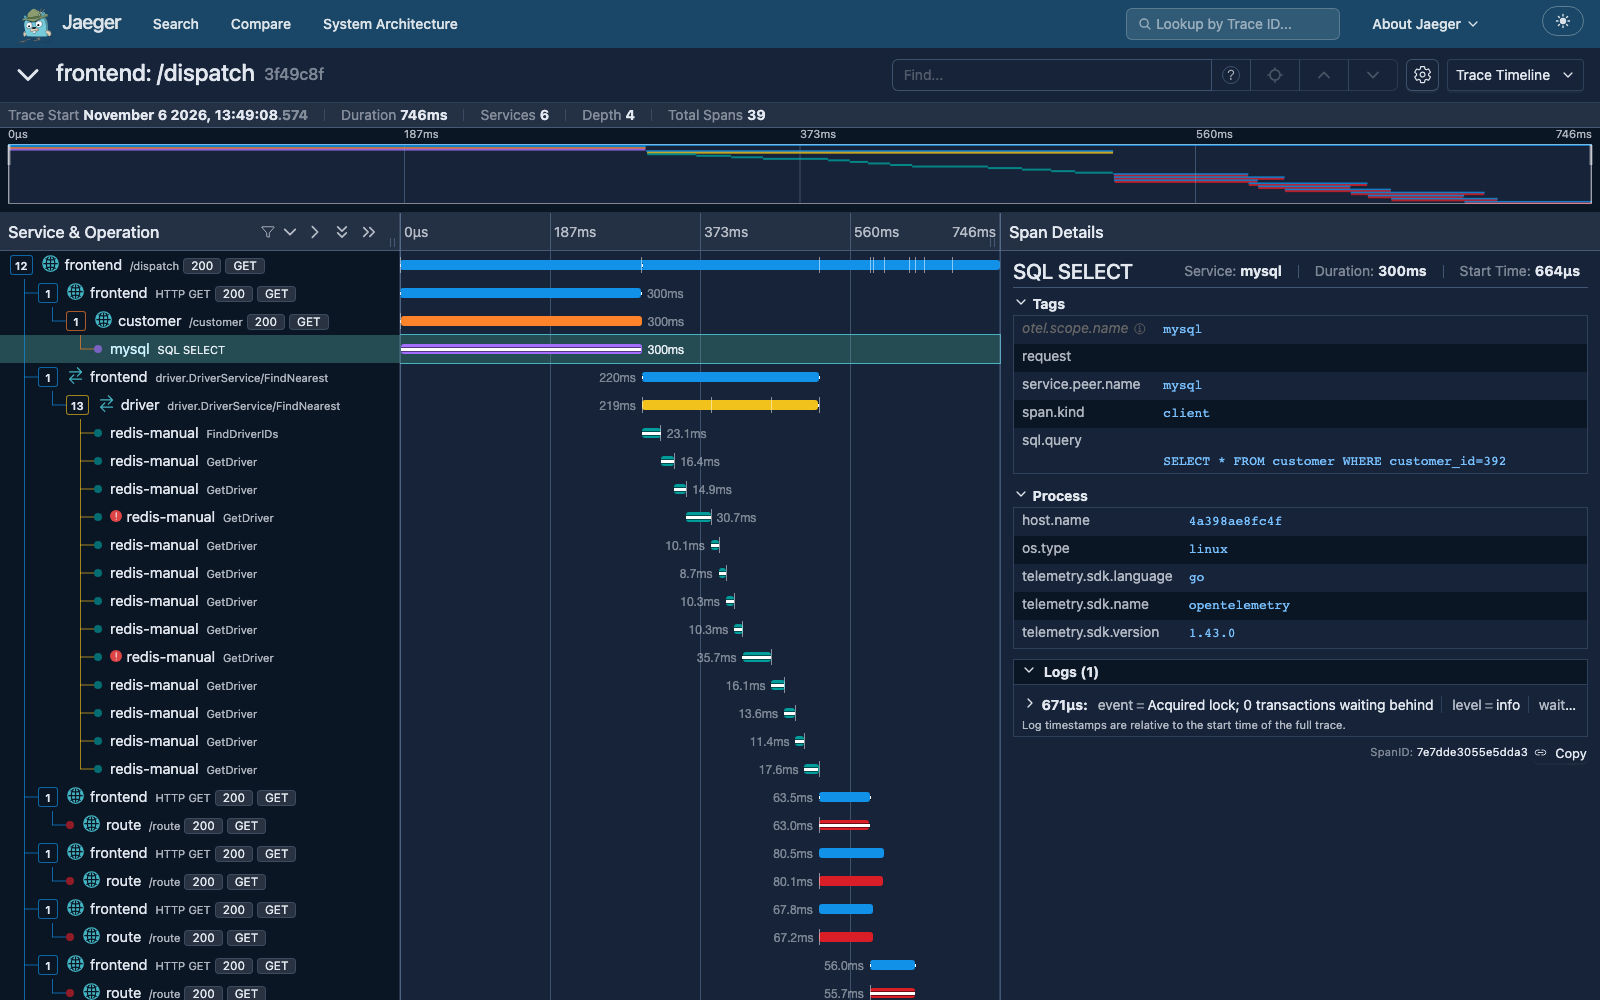
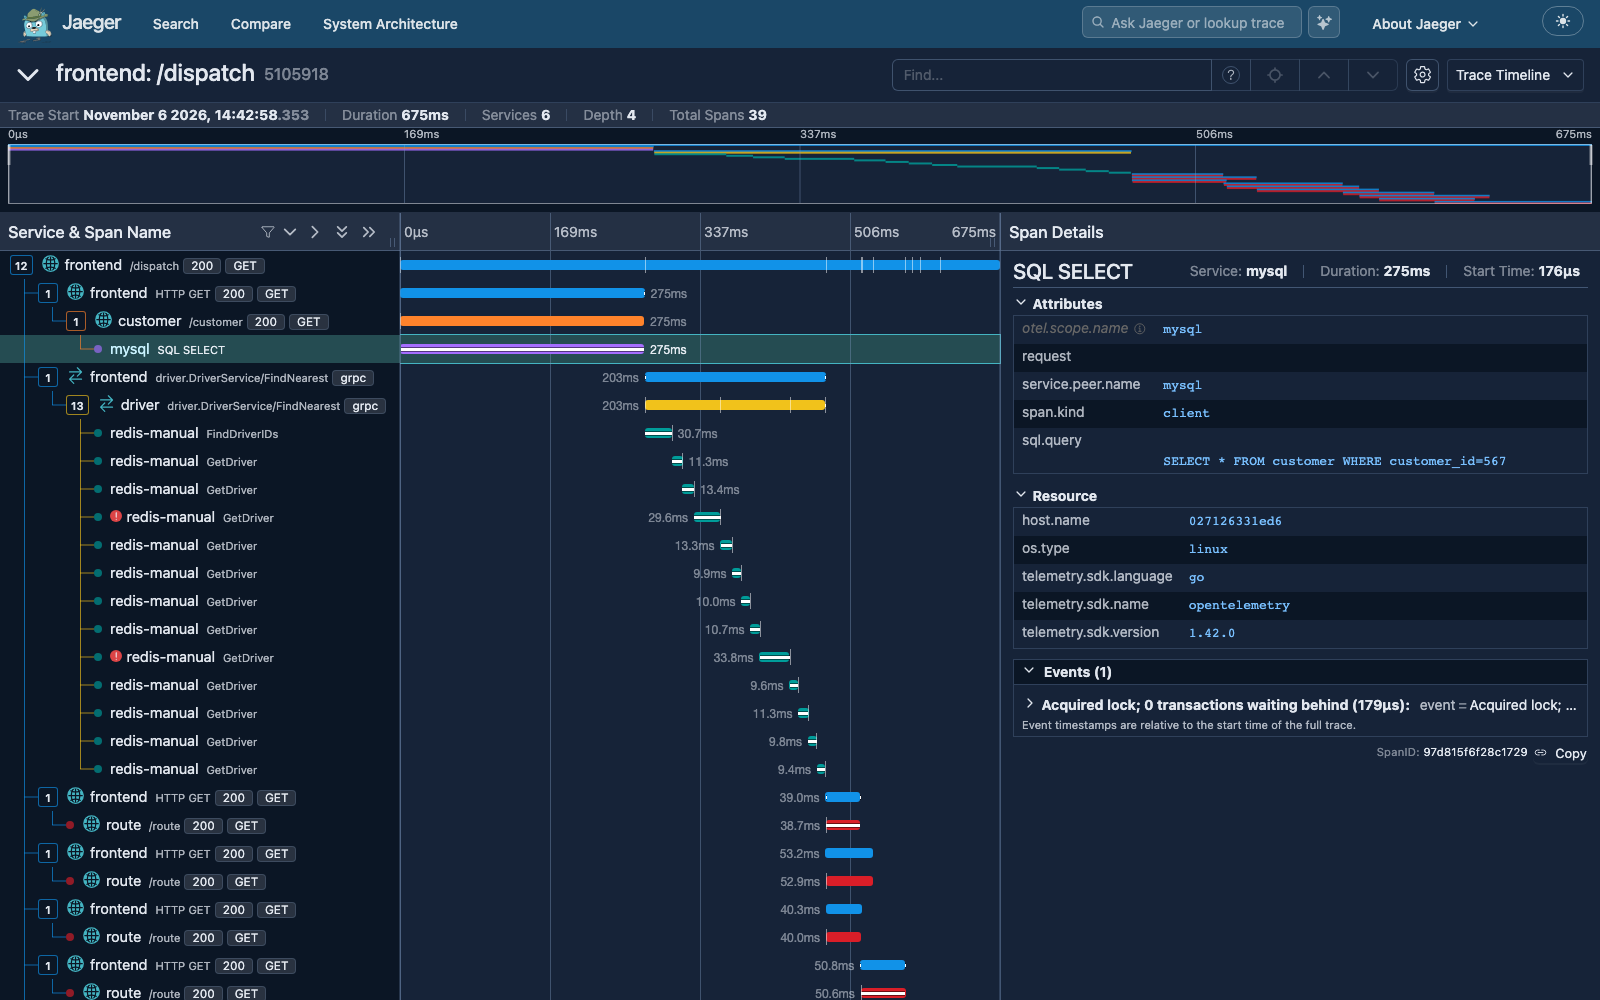
docs(features): Capture the trace view from the released UI and require capture names
The trace view screenshot comes from the released Jaeger image, whose UI
labels the span details Attributes, Resource and Events, so the image
agrees with the OpenTelemetry section above it; the intro page says the
same about the UI's terms. The capture script requires the names of the
captures to take, since they need different stacks and a run of all of
them cannot succeed. The shortcode derives the dark image name with the
path functions instead of a pattern on lowercase extensions.

diff --git a/layouts/_shortcodes/screenshot.html b/layouts/_shortcodes/screenshot.html
@@ -1,7 +1,8 @@
 {{- /* This shortcode places a screenshot of the Jaeger UI that follows the site's color mode. It takes the light image in "src" and shows "<src>-dark.<ext>" instead when the page is in dark mode; the stylesheet picks the visible one by the data-bs-theme attribute. Each image links to itself at full size. The call must be followed by a blank line, or Markdown folds the images into the next paragraph. */ -}}
 {{- $src := .Get "src" -}}
 {{- $alt := .Get "alt" -}}
-{{- $dark := replaceRE `\.([a-z]+)$` "-dark.$1" $src -}}
+{{- $ext := path.Ext $src -}}
+{{- $dark := printf "%s-dark%s" (strings.TrimSuffix $ext $src) $ext -}}
 <div class="screenshot">
 <a class="screenshot--light" href="{{ $src }}"><img src="{{ $src }}" alt="{{ $alt }}"></a>
 <a class="screenshot--dark" href="{{ $dark }}"><img src="{{ $dark }}" alt="{{ $alt }}"></a>

diff --git a/scripts/screenshots/README.md b/scripts/screenshots/README.md
@@ -17,7 +17,7 @@ Jaeger on port 16686.
 ```bash
 npm install
 npx playwright install chromium
-node scripts/screenshots/capture.mjs <capture> [<capture> ...]   # all captures when no name is given
+node scripts/screenshots/capture.mjs <capture> [<capture> ...]
 ```
 
 ## Stacks and captures
@@ -29,13 +29,16 @@ service names in the images are the familiar `frontend`, `customer`, `driver`,
 ### Goose stack: search, trace, graphs, assistant
 
 `scripts/ai-sidecar/goose/run.sh` in the `jaeger` repository starts Jaeger
-built from that working tree, with the AI assistant backed by Goose and a model
-from OpenRouter (`OPENROUTER_API_KEY` or `SECRET_RESOLVER_CMD` must be set; see
-the script's header). It sends traces from microsim, whose traces all root at
+with the AI assistant backed by Goose and a model from OpenRouter
+(`OPENROUTER_API_KEY` or `SECRET_RESOLVER_CMD` must be set; see the script's
+header). With `--release` it runs the released Jaeger image, which is what the
+captures of the released UI should show; without it, it runs a build of that
+working tree, which the `genai-trace` capture needs, because the released image
+does not yet trace its own assistant turns. It sends traces from microsim, whose traces all root at
 `test-executor: runTest` and carry errors, so HotROD replaces it:
 
 ```bash
-./scripts/ai-sidecar/goose/run.sh                  # from the jaeger repository
+./scripts/ai-sidecar/goose/run.sh --release        # from the jaeger repository; without --release for genai-trace
 docker stop goose-microsim-1
 docker restart goose-jaeger-1                      # empties the in-memory store
 docker run -d --rm --name hotrod --network goose_default \

diff --git a/content/docs/v2/2.23/_index.md b/content/docs/v2/2.23/_index.md
@@ -60,7 +60,7 @@ See [Features](./features/) page for more details.
 
 The Jaeger and [OpenTelemetry](https://opentelemetry.io) projects have different goals. OpenTelemetry aims to provide APIs and SDKs in multiple languages to allow applications to export various telemetry data out of the process, to any number of metrics and tracing backends. The Jaeger project is primarily the tracing backend that receives tracing telemetry data and provides processing, aggregation, data mining, and visualizations of that data. For more information please refer to a blog post [Jaeger and OpenTelemetry](https://medium.com/jaegertracing/jaeger-and-opentelemetry-1846f701d9f2).
 
-Jaeger was originally designed to support the [OpenTracing standard](https://opentracing.io/specification/). The terminology is still used in Jaeger UI, but the concepts have direct mapping to the OpenTelemetry data model of traces.
+Jaeger was originally designed to support the [OpenTracing standard](https://opentracing.io/specification/). Its concepts map directly to the OpenTelemetry data model of traces, and Jaeger UI uses the OpenTelemetry terms.
 
 | Capability    | OpenTracing concept | OpenTelemetry concept |
 | ------------- | ------------------- | --------------------- |

diff --git a/content/docs/v2/_dev/_index.md b/content/docs/v2/_dev/_index.md
@@ -60,7 +60,7 @@ See [Features](./features/) page for more details.
 
 The Jaeger and [OpenTelemetry](https://opentelemetry.io) projects have different goals. OpenTelemetry aims to provide APIs and SDKs in multiple languages to allow applications to export various telemetry data out of the process, to any number of metrics and tracing backends. The Jaeger project is primarily the tracing backend that receives tracing telemetry data and provides processing, aggregation, data mining, and visualizations of that data. For more information please refer to a blog post [Jaeger and OpenTelemetry](https://medium.com/jaegertracing/jaeger-and-opentelemetry-1846f701d9f2).
 
-Jaeger was originally designed to support the [OpenTracing standard](https://opentracing.io/specification/). The terminology is still used in Jaeger UI, but the concepts have direct mapping to the OpenTelemetry data model of traces.
+Jaeger was originally designed to support the [OpenTracing standard](https://opentracing.io/specification/). Its concepts map directly to the OpenTelemetry data model of traces, and Jaeger UI uses the OpenTelemetry terms.
 
 | Capability    | OpenTracing concept | OpenTelemetry concept |
 | ------------- | ------------------- | --------------------- |

diff --git a/content/docs/v2/2.23/features.md b/content/docs/v2/2.23/features.md
@@ -36,7 +36,7 @@ Jaeger Web UI is implemented in Javascript as a React application. Several perfo
 
 ### Trace View
 
-{{< screenshot src="/img/frontend-ui/trace-timeline.png" alt="The trace timeline, with the tags, process and logs of the selected span in a side panel" >}}
+{{< screenshot src="/img/frontend-ui/trace-timeline.png" alt="The trace timeline, with the attributes, resource and events of the selected span in a side panel" >}}
 
 The trace view shows the spans of one trace as a Gantt chart. Selecting a span shows its details in a side panel. Other views of the same trace show it as a graph, a flame graph, a statistics table or JSON.
 

diff --git a/content/docs/v2/_dev/features.md b/content/docs/v2/_dev/features.md
@@ -36,7 +36,7 @@ Jaeger Web UI is implemented in Javascript as a React application. Several perfo
 
 ### Trace View
 
-{{< screenshot src="/img/frontend-ui/trace-timeline.png" alt="The trace timeline, with the tags, process and logs of the selected span in a side panel" >}}
+{{< screenshot src="/img/frontend-ui/trace-timeline.png" alt="The trace timeline, with the attributes, resource and events of the selected span in a side panel" >}}
 
 The trace view shows the spans of one trace as a Gantt chart. Selecting a span shows its details in a side panel. Other views of the same trace show it as a graph, a flame graph, a statistics table or JSON.
 
